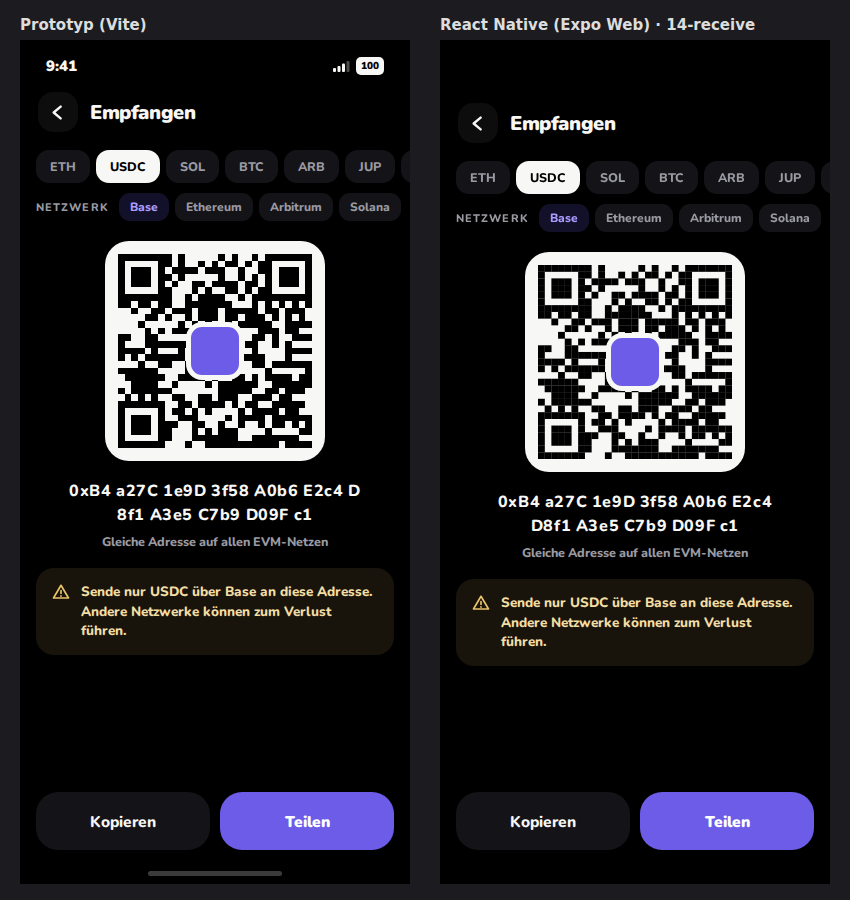
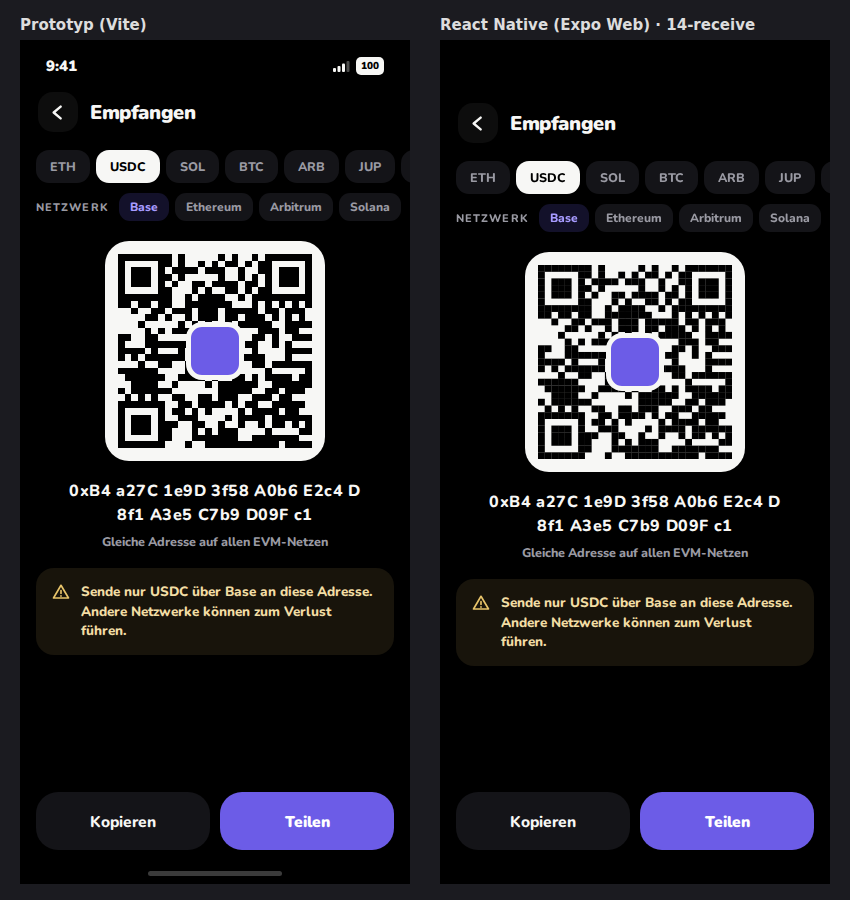
Hide seed words for real, shuffle verify options, round PIN keys
Feedback from the first test on the Android emulator:

- Seed screen: words were readable before tapping "Zum Anzeigen tippen"
  because expo-blur only tints on Android. Hidden words are no longer
  rendered at all, only fixed-width placeholders (also keeps them out of
  the view tree for screenshots and accessibility services).
- Verify step: the three options per row are shuffled every time the step
  opens, so the right word is not always in the same column.
- PIN keypad (PIN screen and signing sheet): keys are circles instead of
  stretched ovals.
- Receive: the address wraps between any characters, like the prototype's
  word-break: break-all, via zero-width spaces (display only).
- CLAUDE.md records working agreements and the product owner's decisions.

Claude-Session: https://claude.ai/code/session_01XQgvbaKo2CxhLBBVjUq2ws

Changed region(s): [[0.5812, 0.5289, 0.9176, 0.5911]]

diff --git a/src/screens/Onboarding.tsx b/src/screens/Onboarding.tsx
@@ -105,15 +105,24 @@ const Badge = ({ children }: { children: string }) => (
   </View>
 );
 
-export function WordGrid({ words, cell, cellBg }: { words: Wallet['seedWords']; cell: number; cellBg: string }) {
+/**
+ * Seed words in a 2-column grid. While `hidden`, the words are not rendered at all, only same-width placeholders:
+ * a blur alone is not reliable on every platform (Android falls back to a tint) and would leave the words in the
+ * view tree for screenshots and accessibility services.
+ */
+export function WordGrid({ words, cell, cellBg, hidden = false }: { words: Wallet['seedWords']; cell: number; cellBg: string; hidden?: boolean }) {
   return (
     <Grid cols={2} colGap={8} rowGap={8}>
       {words.map((s) => (
         <View key={s.n} style={[styles.word, p(cell, 12), { backgroundColor: cellBg }]}>
           <Txt style={[f(800, 12), { width: 18, color: DIM }, TNUM]}>{s.n}</Txt>
-          <Txt selectable={false} style={f(900, 15.5)}>
-            {s.w}
-          </Txt>
+          {hidden ? (
+            <View style={styles.wordPlaceholder} />
+          ) : (
+            <Txt selectable={false} style={f(900, 15.5)}>
+              {s.w}
+            </Txt>
+          )}
         </View>
       ))}
     </Grid>
@@ -130,7 +139,7 @@ export function Seed({ w }: { w: Wallet }) {
       </View>
       <Btn onPress={w.revealSeed} label={w.seedShown ? undefined : 'Zum Anzeigen tippen'} style={styles.seedBox}>
         <Blurred on={!w.seedShown} radius={9}>
-          <WordGrid words={w.seedWords} cell={10} cellBg="#1E1E23" />
+          <WordGrid words={w.seedWords} cell={10} cellBg="#1E1E23" hidden={!w.seedShown} />
         </Blurred>
         {!w.seedShown && (
           <View style={[StyleSheet.absoluteFill, styles.center]}>
@@ -252,7 +261,7 @@ export function PinPad({
           onPress={k.onClick}
           label={k.label || (k.icon ? 'Löschen' : undefined)}
           testID={k.label ? `${testIDPrefix}-${k.label}` : undefined}
-          style={[styles.pinKey, { height: keyHeight, backgroundColor: k.bg }]}
+          style={[styles.pinKey, { width: keyHeight, height: keyHeight, borderRadius: keyHeight / 2, backgroundColor: k.bg }]}
           activeStyle={{ backgroundColor: '#2A2A32' }}
         >
           {k.label ? <Txt style={[f(900, fontSize), TNUM]}>{k.label}</Txt> : k.icon}
@@ -304,5 +313,8 @@ const styles = StyleSheet.create({
   word: { flexDirection: 'row', alignItems: 'center', gap: 10, borderRadius: 14 },
   option: { height: 48, borderRadius: 16, alignItems: 'center', justifyContent: 'center' },
   input: TEXTAREA,
-  pinKey: { borderRadius: '50%', alignItems: 'center', justifyContent: 'center' },
+  // Round keys (product owner decision after Phase 0; the prototype stretched them to ovals).
+  pinKey: { alignSelf: 'center', alignItems: 'center', justifyContent: 'center' },
+  // Height of one line of 15.5 pt Nunito, so the hidden grid has the same size as the revealed one.
+  wordPlaceholder: { width: 64, height: 12, marginVertical: (15.5 * 1.364 - 12) / 2, borderRadius: 6, backgroundColor: 'rgba(247,247,245,.28)' },
 });

diff --git a/src/useWallet.tsx b/src/useWallet.tsx
@@ -26,7 +26,7 @@ import {
   type Asset,
   type Currency,
 } from './data';
-import { chart, famOf, nf, pc, qrCells, short, validateAddress } from './lib';
+import { chart, famOf, nf, pc, qrCells, short, shuffled, validateAddress } from './lib';
 import { Icon, StarIcon } from './ui/icons';
 
 export type Screen =
@@ -85,6 +85,8 @@ interface State {
   checks: boolean[];
   seedShown: boolean;
   picks: Record<number, string>;
+  /** Display order of the three options per verification row, shuffled each time the verify step opens. */
+  verifyOpts: string[][];
   importText: string;
   pin: string;
   pinFirst: string;
@@ -140,6 +142,7 @@ function initialState(start: WalletProps['startScreen']): State {
     checks: [false, false, false],
     seedShown: false,
     picks: {},
+    verifyOpts: VERIFY.map((v) => v.opts),
     importText: '',
     pin: '',
     pinFirst: '',
@@ -380,9 +383,9 @@ export function useWallet(P: WalletProps) {
   }));
   const warnOk = S.checks.every(Boolean);
   const seedWords = SEED.map((w, i) => ({ n: i + 1, w }));
-  const verifyRows = VERIFY.map((v) => ({
+  const verifyRows = VERIFY.map((v, row) => ({
     pos: v.pos,
-    opts: v.opts.map((w) => {
+    opts: (S.verifyOpts[row] ?? v.opts).map((w) => {
       const picked = S.picks[v.pos] === w,
         right = SEED[v.pos - 1] === w;
       return {
@@ -651,7 +654,7 @@ export function useWallet(P: WalletProps) {
     seedWords,
     seedShown: S.seedShown,
     revealSeed: set({ seedShown: true }),
-    seedNext: () => S.seedShown && setState({ screen: 'verify', picks: {} }),
+    seedNext: () => S.seedShown && setState({ screen: 'verify', picks: {}, verifyOpts: VERIFY.map((v) => shuffled(v.opts)) }),
     verifyRows,
     verifyOk,
     verifyNext: () => verifyOk && setState({ screen: 'pin', pinMode: 'set', pin: '', pinFirst: '', pinError: '' }),

diff --git a/src/__tests__/useWallet.test.tsx b/src/__tests__/useWallet.test.tsx
@@ -1,5 +1,5 @@
 import { act, renderHook } from '@testing-library/react-native';
-import { SEED } from '../data';
+import { SEED, VERIFY } from '../data';
 import { useWallet, type WalletProps } from '../useWallet';
 
 const setup = (props: Partial<WalletProps> = {}) => renderHook(() => useWallet({ startScreen: 'welcome', testnet: true, privacyMode: false, ...props }));
@@ -52,6 +52,25 @@ describe('onboarding', () => {
     await typePin(h, '135790');
     expect(h.result.current.screen).toBe('home');
     expect(h.result.current.toast).toBe('Wallet bereit');
+  });
+
+  it('shuffles the verification options each time the step opens', async () => {
+    const h = await setup();
+    await press(h, (w) => w.startCreate());
+    await press(h, (w) => w.revealSeed());
+    const positions = new Set<string>();
+    for (let k = 0; k < 30; k++) {
+      await press(h, (w) => w.seedNext());
+      const rows = h.result.current.verifyRows;
+      for (const row of rows)
+        expect(row.opts.map((o) => o.w).sort()).toEqual(
+          VERIFY.find((v) => v.pos === row.pos)!
+            .opts.slice()
+            .sort(),
+        );
+      positions.add(rows.map((r) => r.opts.findIndex((o) => o.w === SEED[r.pos - 1])).join(''));
+    }
+    expect(positions.size).toBeGreaterThan(1);
   });
 
   it('restarts PIN setup when the confirmation differs', async () => {

diff --git a/src/screens/Transfer.tsx b/src/screens/Transfer.tsx
@@ -31,6 +31,12 @@ import type { Wallet } from '../useWallet';
 import { SEED_INPUT_PROPS } from './Onboarding';
 import { Tag } from './Portfolio';
 
+/**
+ * Lets the address wrap between any two characters, like the prototype's `word-break: break-all` (native Text only
+ * breaks at spaces). Display only: never copy or share this string, it contains zero-width spaces.
+ */
+const breakAnywhere = (text: string) => text.split('').join('\u200B');
+
 const TwoLineTitle = ({ title, sub }: { title: string; sub: string }) => (
   <View style={{ flexShrink: 1 }}>
     <HeaderTitle>{title}</HeaderTitle>
@@ -70,7 +76,7 @@ export function Receive({ w }: { w: Wallet }) {
           <QrMatrix cells={w.qr} />
           <View style={styles.qrLogo} />
         </View>
-        <Txt style={[f(800, 16, 1.5), { marginTop: 18, maxWidth: 300, textAlign: 'center', letterSpacing: 0.6 }, TNUM]}>{w.rcvAddr}</Txt>
+        <Txt style={[f(800, 16, 1.5), { marginTop: 18, maxWidth: 300, textAlign: 'center', letterSpacing: 0.6 }, TNUM]}>{breakAnywhere(w.rcvAddr)}</Txt>
         <Txt style={[f(800, 12.5), { marginTop: 6, color: MUTED }]}>{w.rcvNote}</Txt>
       </View>
       <View style={[styles.warnBox, p(14, 16)]}>

diff --git a/src/__tests__/App.test.tsx b/src/__tests__/App.test.tsx
@@ -27,7 +27,9 @@ it('onboards a new wallet through the prototype click path', async () => {
   await tap('Wörter anzeigen');
 
   expect(screen.getByText('Deine Wiederherstellungsphrase')).toBeOnTheScreen();
+  for (const word of SEED) expect(screen.queryByText(word)).toBeNull(); // hidden words are not rendered at all
   await tap('Zum Anzeigen tippen');
+  for (const word of SEED) expect(screen.getByText(word)).toBeOnTheScreen();
   await tap('Ich habe sie notiert');
   await tap(SEED[2]!);
   await tap(SEED[6]!);
@@ -122,4 +124,12 @@ it('handles the Android back button: back within flows, exit on root screens', a
 
   await act(async () => void (handled = onBack?.({} as never)));
   expect(handled).toBe(false); // Portfolio is a root screen: Android leaves the app
+});
+
+it('lets the receive address wrap anywhere without changing its characters', async () => {
+  await renderApp({ startScreen: 'home' });
+  await tap('Empfangen');
+  const shown = screen.getByText(/^0/).props.children as string;
+  expect(shown).toContain('\u200B');
+  expect(shown.replaceAll('\u200B', '').replaceAll(' ', '')).toBe('0xB4a27C1e9D3f58A0b6E2c4D8f1A3e5C7b9D09Fc1');
 });

diff --git a/src/__tests__/lib.test.ts b/src/__tests__/lib.test.ts
@@ -1,5 +1,5 @@
 import { ADDR, POISON, RECENT } from '../data';
-import { chart, famOf, nf, pc, qrCells, short, validateAddress } from '../lib';
+import { chart, famOf, nf, pc, qrCells, short, shuffled, validateAddress } from '../lib';
 
 describe('formatting', () => {
   it('formats numbers in de-DE with fixed decimals', () => {
@@ -74,5 +74,20 @@ describe('validateAddress', () => {
 
   it('flags first-time recipients', () => {
     expect(validateAddress('0x' + 'a'.repeat(40), 'evm', 'ETH', 'Ethereum')?.kind).toBe('info');
+  });
+});
+
+describe('shuffled', () => {
+  it('returns a permutation without touching the input', () => {
+    const input = ['a', 'b', 'c'];
+    const out = shuffled(input, () => 0);
+    expect(out).toEqual(['b', 'c', 'a']);
+    expect(input).toEqual(['a', 'b', 'c']);
+  });
+
+  it('produces every order of three items', () => {
+    const seen = new Set<string>();
+    for (let k = 0; k < 400; k++) seen.add(shuffled(['a', 'b', 'c']).join(''));
+    expect(seen.size).toBe(6);
   });
 });

diff --git a/src/lib.ts b/src/lib.ts
@@ -84,3 +84,16 @@ export function validateAddress(addr: string, fam: Family, sym: string, net: str
   }
   return { kind: 'info', text: 'Erstmaliger Empfänger. Prüfe die Adresse sorgfältig.' };
 }
+
+/**
+ * Fisher–Yates shuffle into a new array. Only for UI ordering (verification options); `rand` defaults to Math.random
+ * because the order is not secret. Phase 2 draws the verified positions and wrong words with a CSPRNG.
+ */
+export function shuffled<T>(items: readonly T[], rand: () => number = Math.random): T[] {
+  const out = items.slice();
+  for (let i = out.length - 1; i > 0; i--) {
+    const j = Math.floor(rand() * (i + 1));
+    [out[i], out[j]] = [out[j]!, out[i]!];
+  }
+  return out;
+}

diff --git a/CLAUDE.md b/CLAUDE.md
@@ -1,0 +1,27 @@
+# Anthea – Hinweise für Coding-Agenten
+
+Verbindliche Spezifikation: `docs/BUILD_PLAN.md` (vor jeder Phase vollständig lesen). Sicherheitsmodell:
+`docs/SECURITY.md`, Datenflüsse: `docs/PRIVACY.md`.
+
+## Arbeitsweise
+
+- Eine Phase nach der anderen, ein Branch und ein Pull Request pro Phase; mit Zusammenfassung, Testnachweis und
+  Screenshots. Bei Unklarheiten vor der Umsetzung fragen.
+- Vor jedem Push: `npm run typecheck`, `npm run lint`, `npm run format:check`, `npm test` (und in `server/`:
+  `npm run typecheck`, `npm test`).
+- UI auf Deutsch, Code, Kommentare und Commits auf Englisch.
+- Der Produktinhaber testet unter Windows im Android-Emulator (Projekt unter `C:\dev\Anthea`, JDK 17, lange Pfade
+  aktiviert). Anleitungen für ihn: Schritt für Schritt, ein Schritt pro Nachricht, auf Deutsch. Wenn eine Änderung
+  native Module oder `app.config.ts` betrifft, darauf hinweisen, dass `npm run android` erneut nötig ist.
+
+## Entscheidungen des Produktinhabers (zusätzlich zu BUILD_PLAN 13.1)
+
+| Datum | Thema | Entscheidung |
+|---|---|---|
+| 2026-09-26 | App-ID | Platzhalter `dev.anthea.wallet` bis zur Domain-Entscheidung (13.2) |
+| 2026-09-26 | Navigation | bestehender `screen`-State aus `useWallet`, Android-Zurück per `BackHandler`, iOS per Wischen vom linken Rand |
+| 2026-09-27 | Titel „Deine Wiederherstellungsphrase“ | bleibt wie er ist (Umbruch „…Wiederherstellungs / phrase“ ist in Ordnung) |
+| 2026-09-27 | Verdeckte Seed-Wörter | solange „Zum Anzeigen tippen“ sichtbar ist, dürfen die Wörter nicht lesbar sein; sie werden gar nicht gerendert, nur Platzhalter |
+| 2026-09-27 | Verifikation der Phrase | Reihenfolge der drei Antwortoptionen je Zeile immer zufällig (bei jedem Öffnen neu) |
+| 2026-09-27 | PIN-Tastenfeld | Tasten kreisrund, nicht oval (bewusste Abweichung vom Prototyp) |
+| 2026-09-27 | Empfangsadresse | Umbruch zwischen beliebigen Zeichen wie im Prototyp (`break-all`), nicht nur an den 4er-Gruppen |
